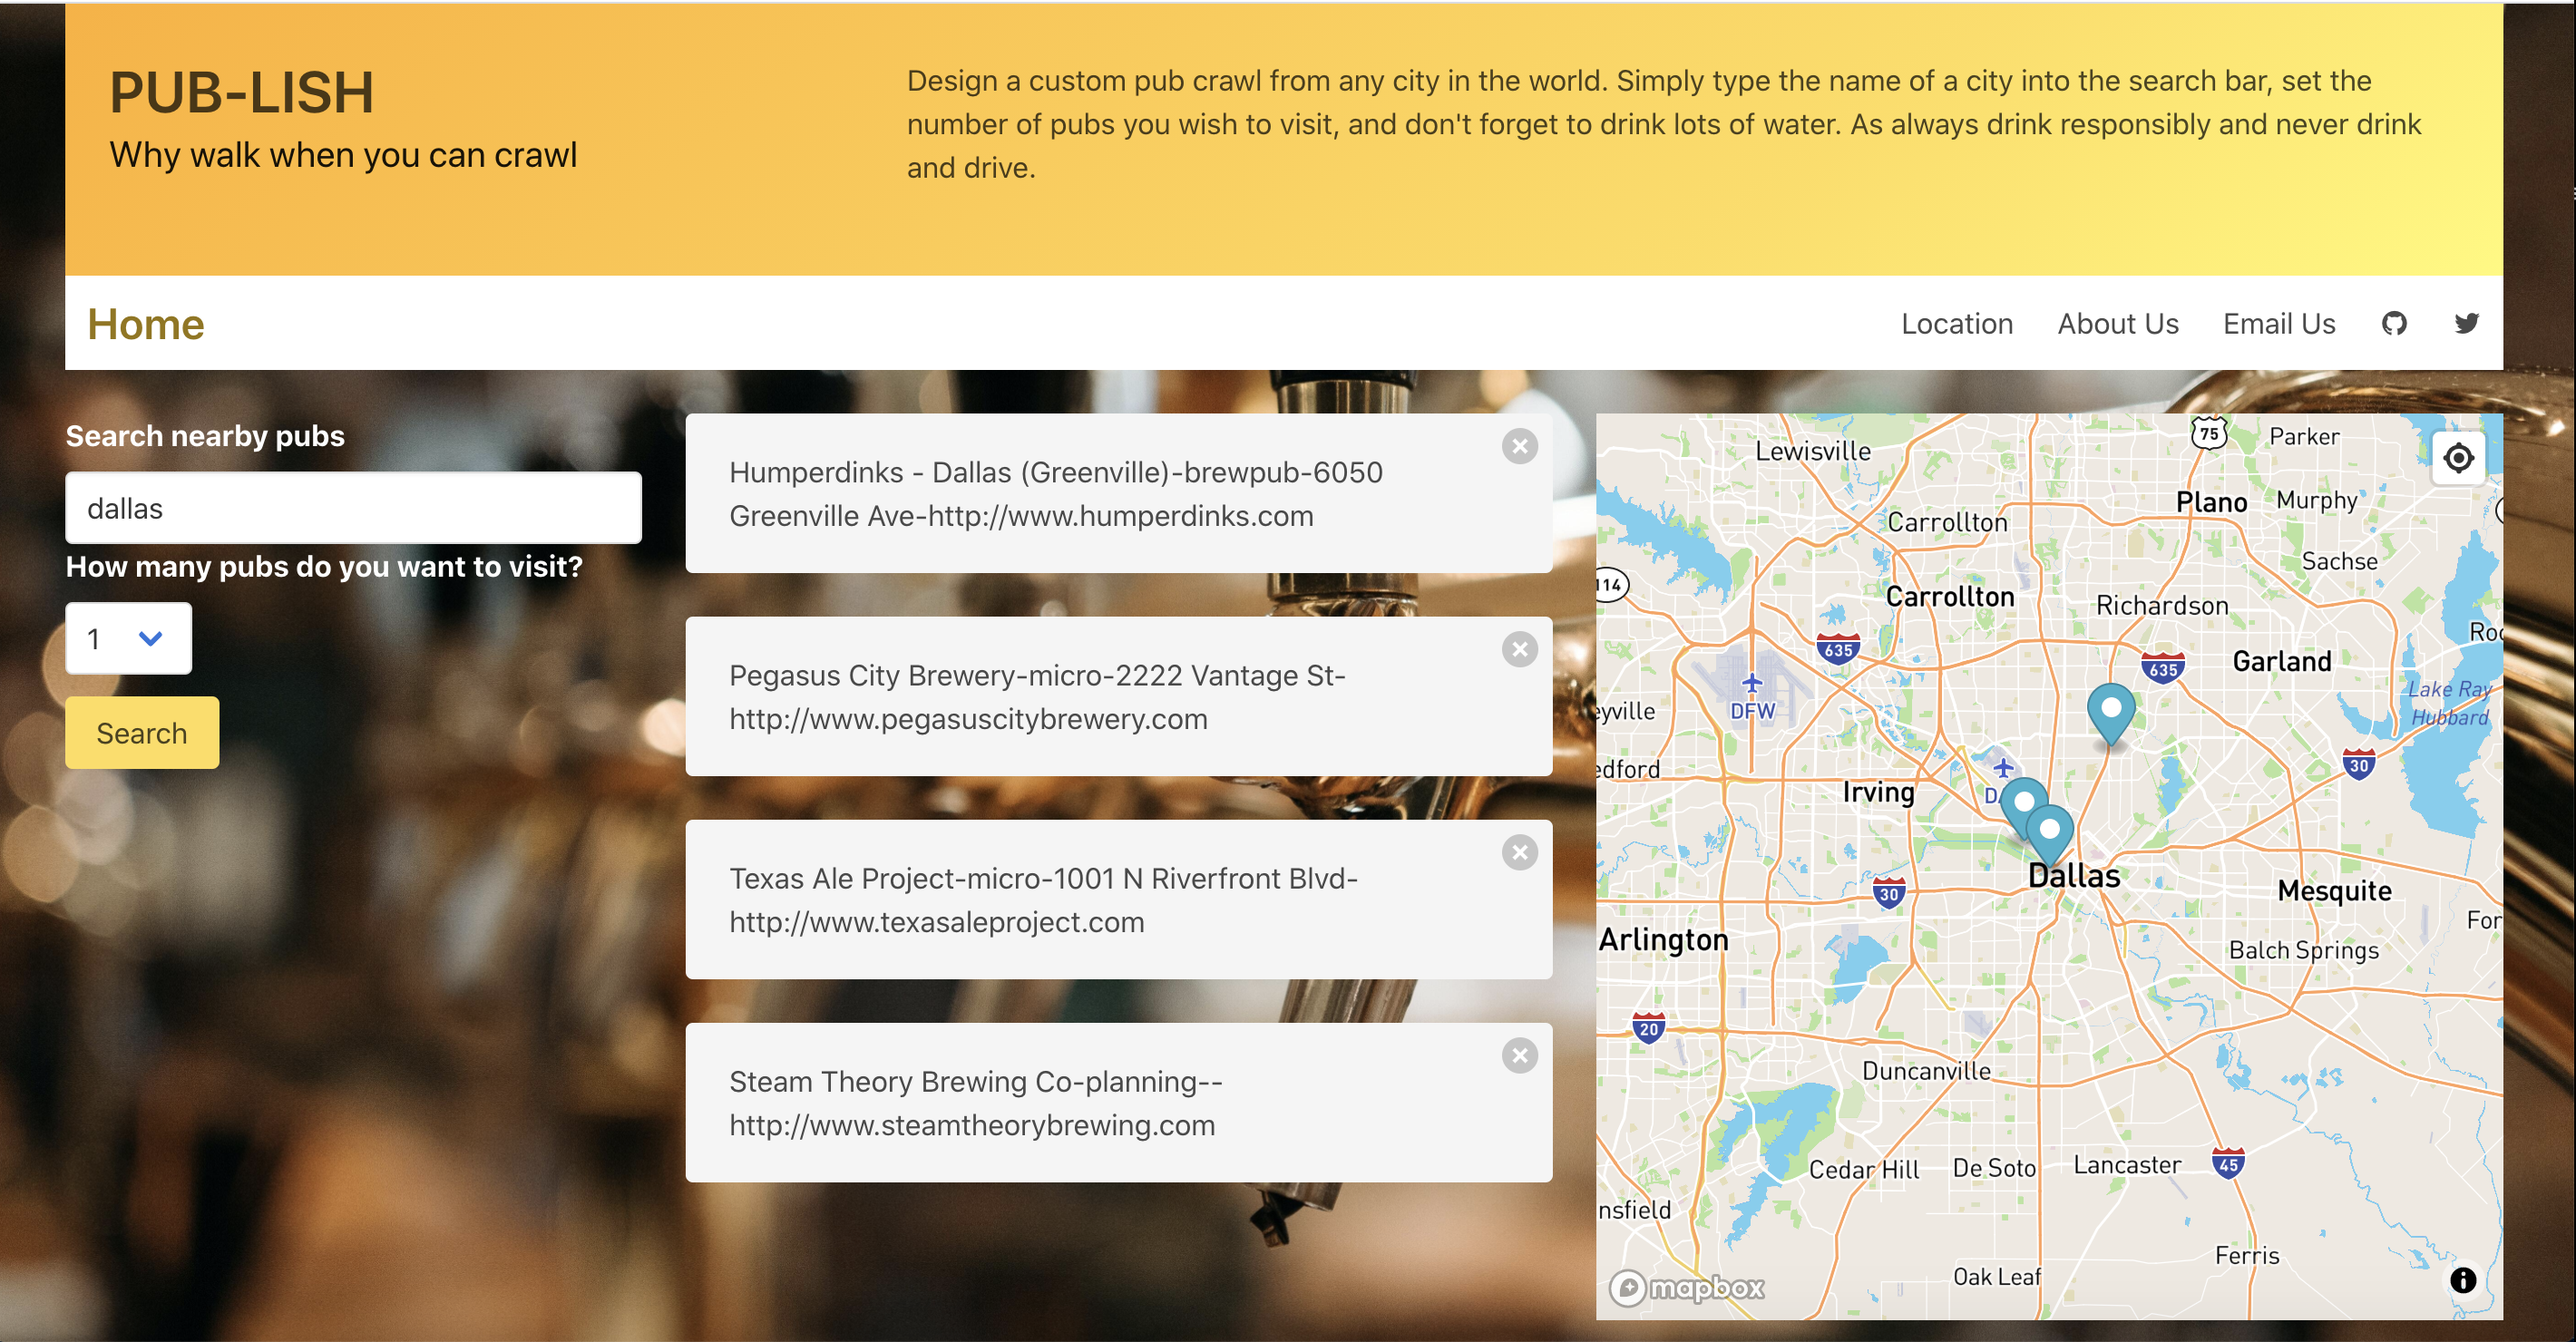
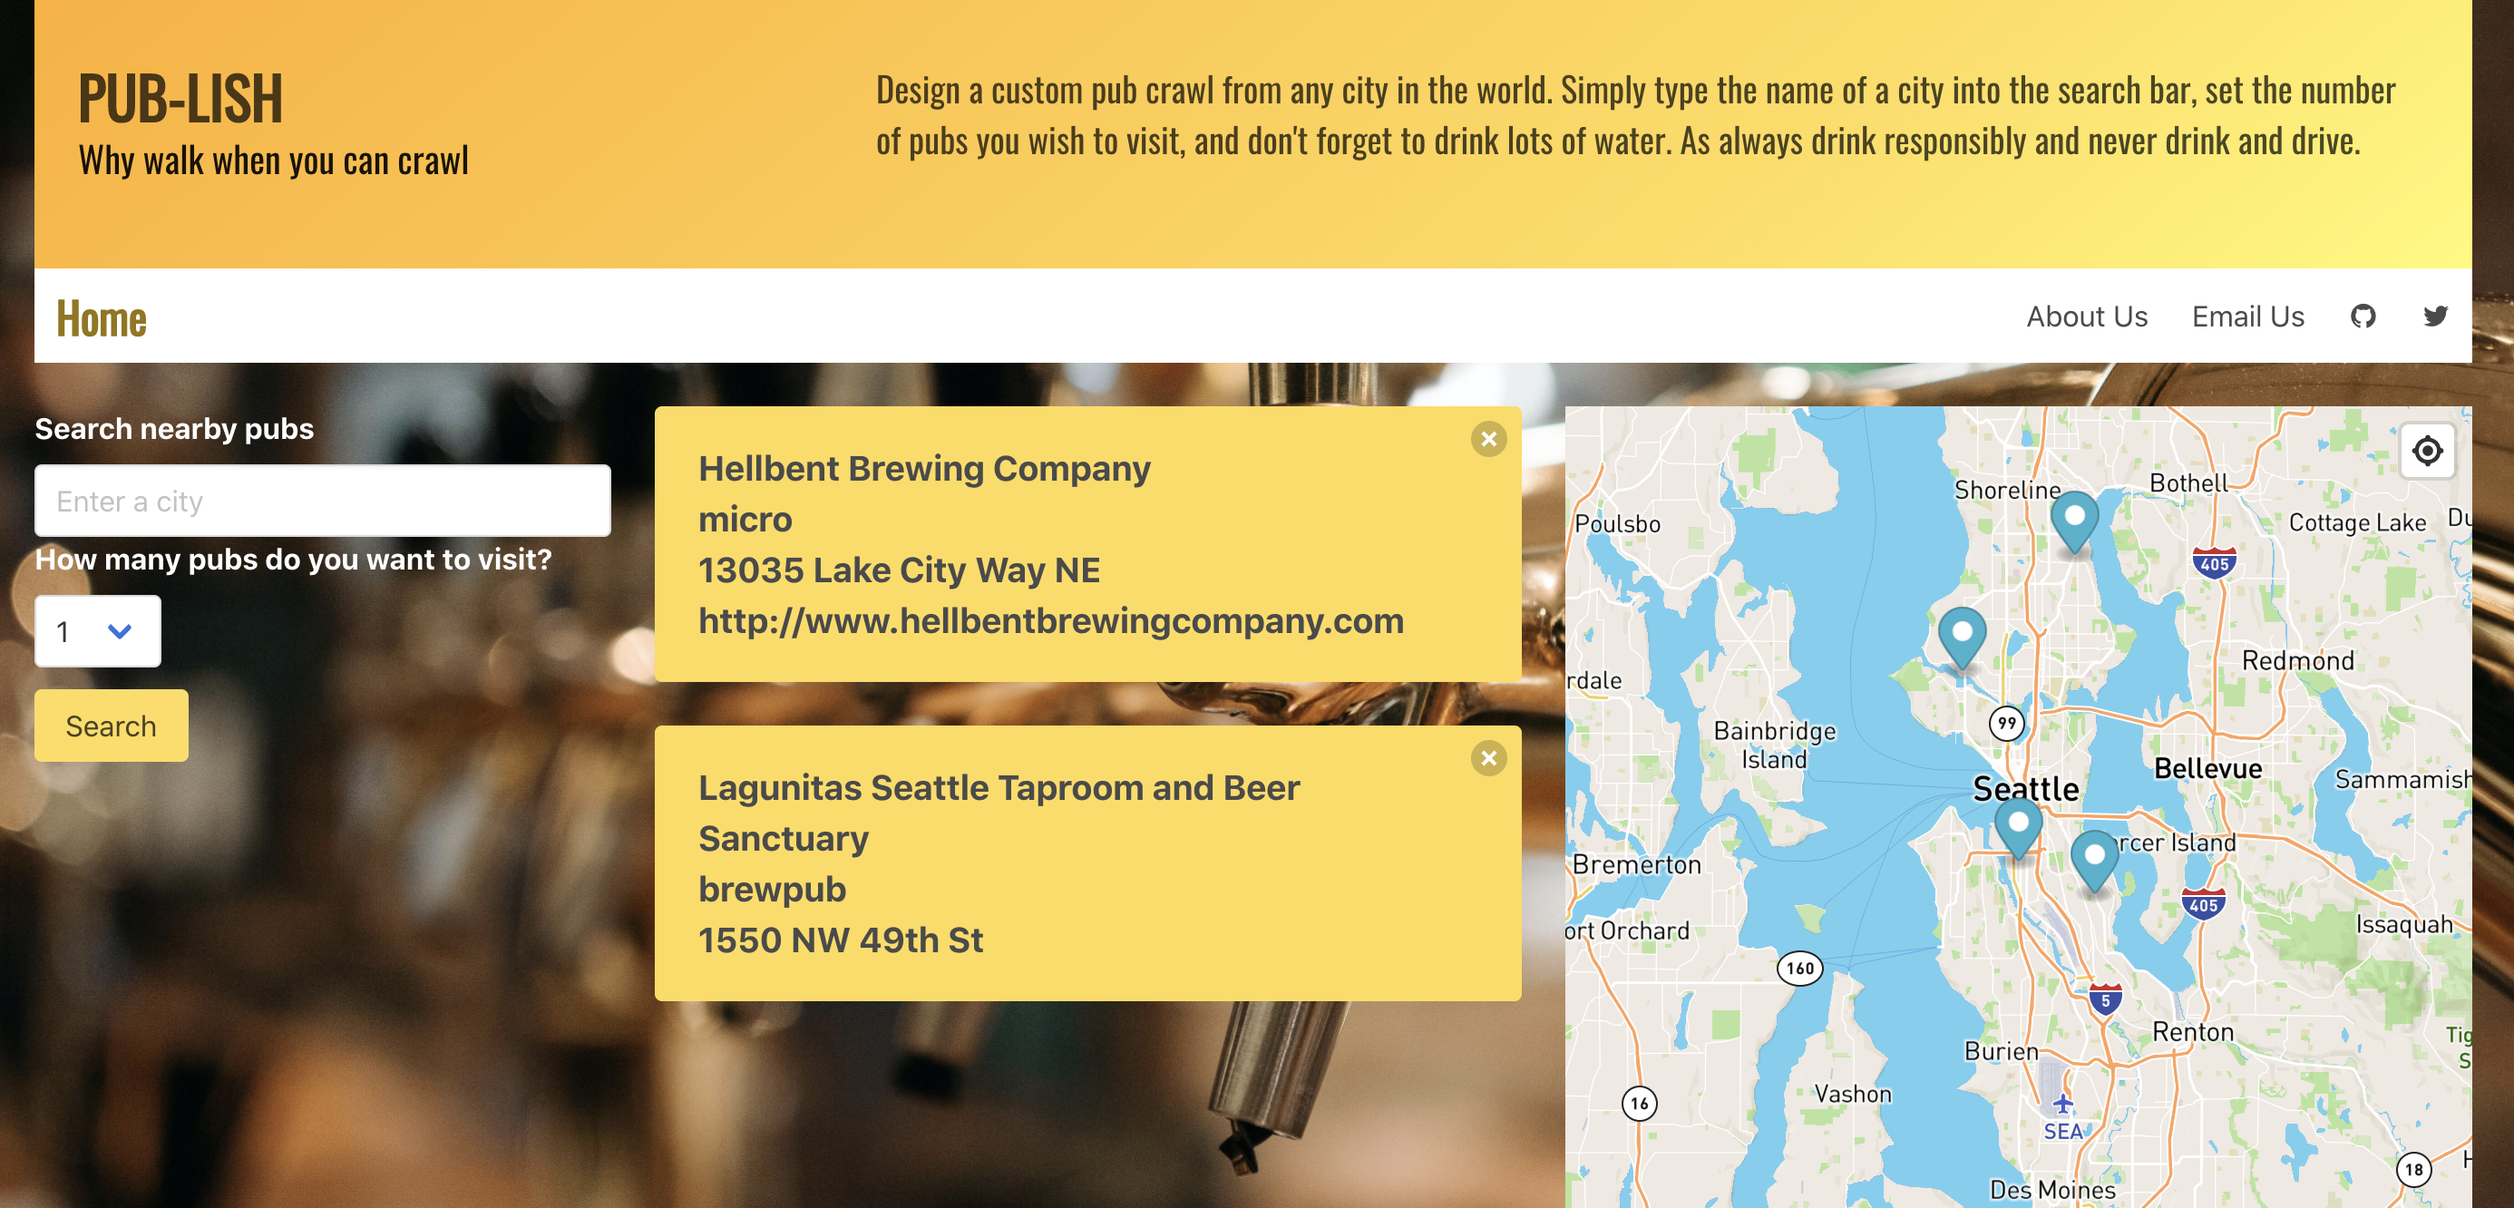
added links

diff --git a/index.html b/index.html
@@ -7,11 +7,16 @@
   <link href="https://api.mapbox.com/mapbox-gl-js/v1.12.0/mapbox-gl.css" rel="stylesheet" />
   <link rel="stylesheet" href="https://maxcdn.bootstrapcdn.com/font-awesome/4.7.0/css/font-awesome.min.css" />
   <link rel="stylesheet" href="https://cdn.jsdelivr.net/npm/bulma@0.9.1/css/bulma.min.css" />
+  <link rel="preconnect" href="https://fonts.gstatic.com">
+  <link href="https://fonts.googleapis.com/css2?family=Oswald&display=swap" rel="stylesheet">
   <link rel="stylesheet" href="./assets/style.css">
-
+  <style>
+    @import url('https://fonts.googleapis.com/css2?family=Roboto&display=swap');
+  </style>
  </head>
 
 <body>
+ 
   <div class="container">
     <section class="hero is-bold is-warning">
       <div class="hero-body columns">
@@ -19,7 +24,7 @@
           <h1 class="title">PUB-LISH</h1>
           <h2 class="subtitle">Why walk when you can crawl</h2>
         </div>
-        <div class="column is-two-thirds is-justify-content-flex-end mx-0">
+        <div class="column is-two-thirds is-justify-content-flex-end mx-0 paragrahOne">
           <p>
             Design a custom pub crawl from any city in the world. Simply type
             the name of a city into the search bar, set the number of pubs you
@@ -33,18 +38,17 @@
     <div class="block">
       <nav class="navbar">
         <div class="navbar-start">
-          <a href="#" class="navbar-item">
+          <a href="javascript:window.location.reload();" class="navbar-item">
             <h1 class="title is-4 has-text-warning-dark">Home</h1>
           </a>
         </div>
 
         <div class="navbar-end navbar-menu">
-          <a href="#" class="navbar-item">Location</a>
-          <a href="#" class="navbar-item">About Us</a>
-          <a href="#" class="navbar-item">Email Us</a>
-          <a href="#" class="navbar-item"><span class="icon"><i class="fa fa-github"></i></span>
+          <a href="https://github.com/LauraGwendolynBurch/Pub-Lish/" target="_blank"  class="navbar-item">About Us</a>
+          <a href="mailto:lauraburch.lb@gmail.com" class="navbar-item">Email Us</a>
+          <a href="https://github.com" target="_blank" class="navbar-item"><span class="icon"><i class="fa fa-github"></i></span>
           </a>
-          <a href="#" class="navbar-item">
+          <a href="https://twitter.com" target="_blank" class="navbar-item">
             <span class="icon"><i class="fa fa-twitter"></i></span>
           </a>
         </div>

diff --git a/assets/script.js b/assets/script.js
@@ -71,9 +71,9 @@ function buildQueryURL() {
         var btnEl = $("<button>");
 
 
-        divEL.addClass("notification", "mapboxgl-popup-content");
-        divEL.addClass("is-light");
+        divEL.addClass("notification");
         btnEl.addClass("delete");
+        divEL.addClass("textBox");
 
 
 
@@ -85,7 +85,7 @@ function buildQueryURL() {
 
         // working on delete button
         // working on savebutton
-        divEL.append(breweryName, sp, breweryType, sp, breweryAddress, sp, breweryURL, btnEl);
+        divEL.append(`${breweryName} <br> ${breweryType} <br> ${breweryAddress} <br> ${breweryURL}`, btnEl);
 
         searchResults.append(divEL);
         if (response[i].longitude == null

diff --git a/assets/style.css b/assets/style.css
@@ -9,8 +9,22 @@ html {
 
   .mapboxgl-popup-content{
     text-align: left;
-    box-shadow: seashell;
     font-size: 1.2em;
     font-weight: bolder;
     background-color: rgb(255 220 85)
+  }
   
+  .textBox { 
+    text-align: left;
+    font-size: 1.2em;
+    font-weight: bolder;
+    background-color: rgb(255 220 85)
+  }
+
+  .title, .subtitle, .paragrahOne {
+    font-family: 'Oswald', sans-serif;
+  }
+
+  .paragrahOne {
+    font-size: larger;
+  }
